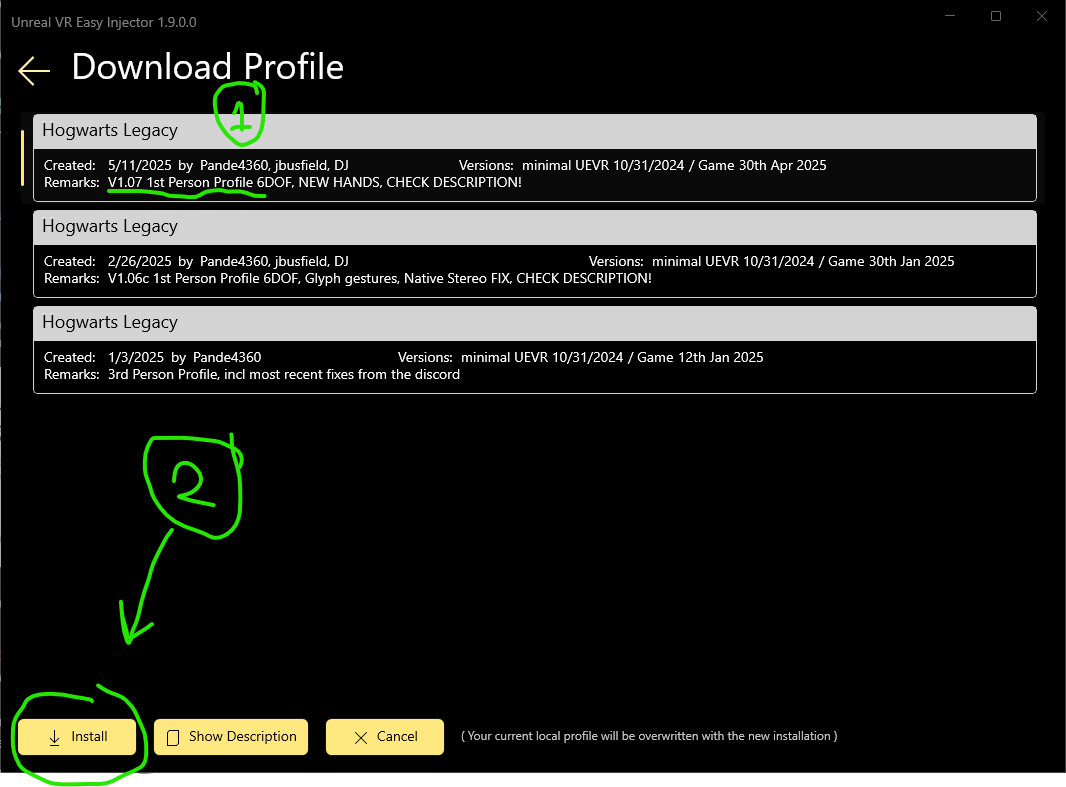
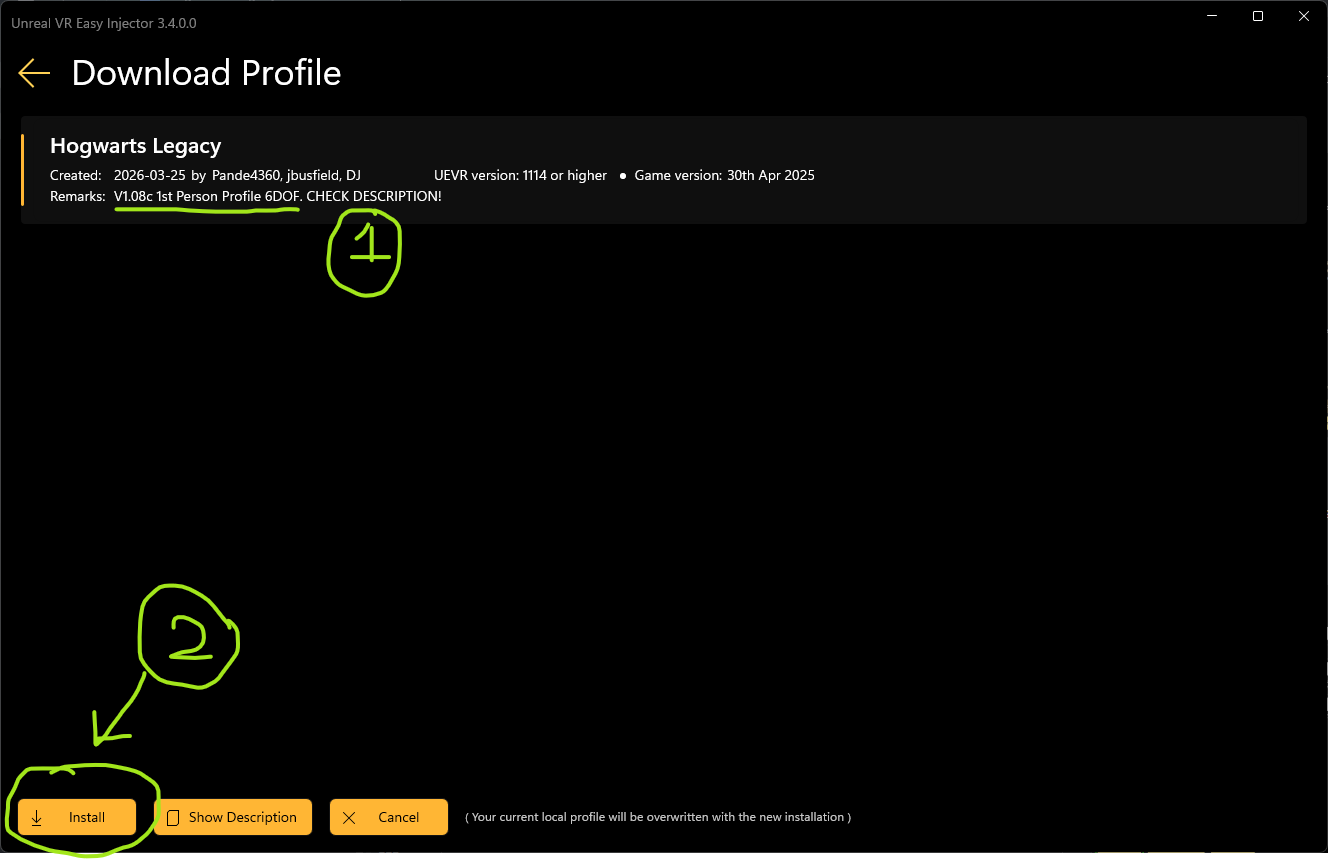
* Add note for RenanMartins IK profile * Update image of Easy Injector profile selection

diff --git a/README.md b/README.md
@@ -123,6 +123,17 @@ Also see [Profile Configuration Options](#profile-configuration-options) for add
 
 If you want to play in 1st person with an Xbox controller, without motion controls, then see the section [Disable Motion Controls](#disable-motion-controls).
 
+> [!NOTE]  
+> 2026-08-24  
+> The profile has been augmented by Discord user RenanMartins to include an Inverse Kinematics (IK) player body.  
+> Discord post: https://discord.com/channels/747967102895390741/1363692053229207792/1541525422523682826  
+> GitHub page: https://github.com/renangto15722-arch/Hogwarts-Legacy-VR-Body-IK-Profile/tree/main  
+>
+> At the time of this writing, this new profile is not yet available to install through Oduis's Easy Injector.  
+> So for now, you have to manually download the zip and extract it to `%appdata%\UnrealVRMod\HogwartsLegacy\`  
+> Be sure to completely delete your existing HogwartsLegacy profile folder first.  
+> You can and should still use Oduis's Easy Injector to [inject](#injecting) and keep the UEVR backend updated.
+
 ### Connect your VR headset
 
 Connect your VR HMD (head mounted display) to your PC.
@@ -139,7 +150,7 @@ Even if your HMD _can_ work with OpenVR, OpenXR is newer and will provide the be
 
 <br>
 
-If Meta Quest as your HMD, then there are a few software options for connecting to your PC
+If Meta Quest is your HMD, then there are a few software options for connecting to your PC
 
 | Method                                                                                | Type          | Cost | OpenXR Runtime | Notes                                                                                                           |
 |---------------------------------------------------------------------------------------|---------------|------|----------------|-----------------------------------------------------------------------------------------------------------------|
@@ -456,7 +467,7 @@ If it still doesn't appear, you may need to restart the game.
 
 Cast other spells by holding the trigger and moving the analog-stick up/down/left/right to cast the corresponding spell as seen on the HUD.  
 This is a special feature of this profile when enhanced controller mode is on in the [Hogwarts Config](#profile-configuration-options) tab.  
-The buttons [A] [B] [X] [Y] also work to cast spells, just like in flat mode (non-VR).
+The buttons \[A] \[B] \[X] \[Y] also work to cast spells, just like in flat mode (non-VR).
 
 To **open chests** or collect **field guide pages** or otherwise interact with things, point the wand at it and press [B] on you right-hand Quest controller.  
 Be sure you're pointing well and can see the button prompt to Press X (but actuality press B).
@@ -598,17 +609,17 @@ There is a "Hogwarts Config" tab in the [UEVR settings](#open-uevr-settings-in-g
 
 ![](images/14-uevr-settings-profile-settings-UI.png)
 
-| Option                    | Description                                                                                                                                                                                                                                                                                                                                                                                          |
-|---------------------------|------------------------------------------------------------------------------------------------------------------------------------------------------------------------------------------------------------------------------------------------------------------------------------------------------------------------------------------------------------------------------------------------------|
-| Locomotion Mode           | When moving with the left stick, should the character move in the direction that your head is facing, the direction that your wand hand is pointing, or not be affected by VR tracking at all and require the right stick to turn.                                                                                                                                                                   |
-| Target Mode               | Auto target = Spells go toward where you point. <br/>Manual target = you must lock on to an enemy or object by pressing in on the right thumb-stick and change targets by moving the right thumb-stick left and right.                                                                                                                                                                               |
-| Controller Mode           | When on "Enhanced", equiped spells can be cast with the right thumb-stick while the right trigger is held down.                                                                                                                                                                                                                                                                                      |
-| Gesture Mode              | Cast spells by drawing glyphs in the air. <br/>See [Glyph Gestures](#glyph-gestures)                                                                                                                                                                                                                                                                                                                 |
-| Manual Hide Wand          | When off, the wand will automaticaly disapear when not in use. <br/>When on, hold your wand down by your side and press grip to make it disapear. <br/>The wand will always come back when casting a spell. <br/>If your wand and/or hands detach from your motion controllers, then "grab your right ear": hold the right controller up to your right ear near your HMD and press the grip button. |
-| First Person Cinematics   | Even with "First Person View" on, the cutscenes will still be in 3rd person, unless you have this option enabled too.                                                                                                                                                                                                                                                                                |
-| Enable Volumetric Fog     | The game has a lot of fog. Even inside the castle. Turn it off to see better and not have interior spaces look washed out.                                                                                                                                                                                                                                                                           |
-| Curson follows controller | On most pause menu screens, move your right controller to move the pointer, instead of needing to use the right thumb-stick.                                                                                                                                                                                                                                                                         |
-| Attach UI to View         | The HUD (mini-map, health, spells, quest markers, etc.) will stay in front of you when you turn your head.                                                                                                                                                                                                                                                                                           |
+| Option                    | Description                                                                                                                                                                                                                                                                                                                                                                                           |
+|---------------------------|-------------------------------------------------------------------------------------------------------------------------------------------------------------------------------------------------------------------------------------------------------------------------------------------------------------------------------------------------------------------------------------------------------|
+| Locomotion Mode           | When moving with the left stick, should the character move in the direction that your head is facing, the direction that your wand hand is pointing, or not be affected by VR tracking at all and require the right stick to turn.                                                                                                                                                                    |
+| Target Mode               | Auto target = Spells go toward where you point. <br/>Manual target = you must lock on to an enemy or object by pressing in on the right thumb-stick and change targets by moving the right thumb-stick left and right.                                                                                                                                                                                |
+| Controller Mode           | When on "Enhanced", equiped spells can be cast with the right thumb-stick while the right trigger is held down.                                                                                                                                                                                                                                                                                       |
+| Gesture Mode              | Cast spells by drawing glyphs in the air. <br/>See [Glyph Gestures](#glyph-gestures)                                                                                                                                                                                                                                                                                                                  |
+| Manual Hide Wand          | When off, the wand will automaticaly disapear when not in use. <br/>When on, hold your wand down by your side and press grip to make it disapear. <br/>The wand will always come back when casting a spell. <br/>If your wand and/or hands detach from your motion controllers, then "grab your right ear": hold the right controller up to your right ear near your HMD and press the grip button.   |
+| First Person Cinematics   | Even with "First Person View" on, the cutscenes will still be in 3rd person, unless you have this option enabled too.                                                                                                                                                                                                                                                                                 |
+| Enable Volumetric Fog     | The game has a lot of fog. Even inside the castle. Turn it off to see better and not have interior spaces look washed out.                                                                                                                                                                                                                                                                            |
+| Curson follows controller | On most pause menu screens, move your right controller to move the pointer, instead of needing to use the right thumb-stick.                                                                                                                                                                                                                                                                          |
+| Attach UI to View         | The HUD (mini-map, health, spells, quest markers, etc.) will stay in front of you when you turn your head.                                                                                                                                                                                                                                                                                            |
 
 
 ## Disable motion-controls
